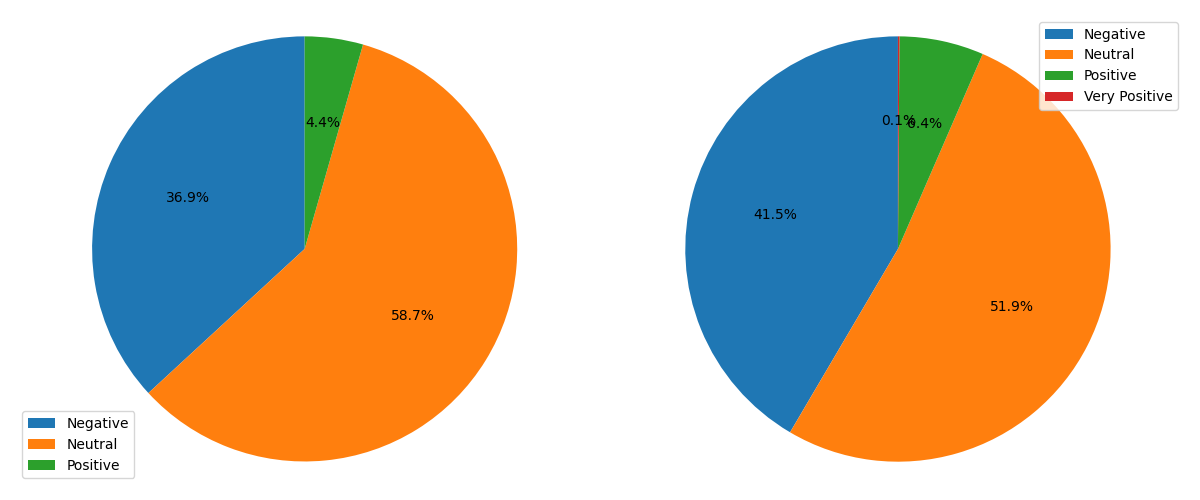
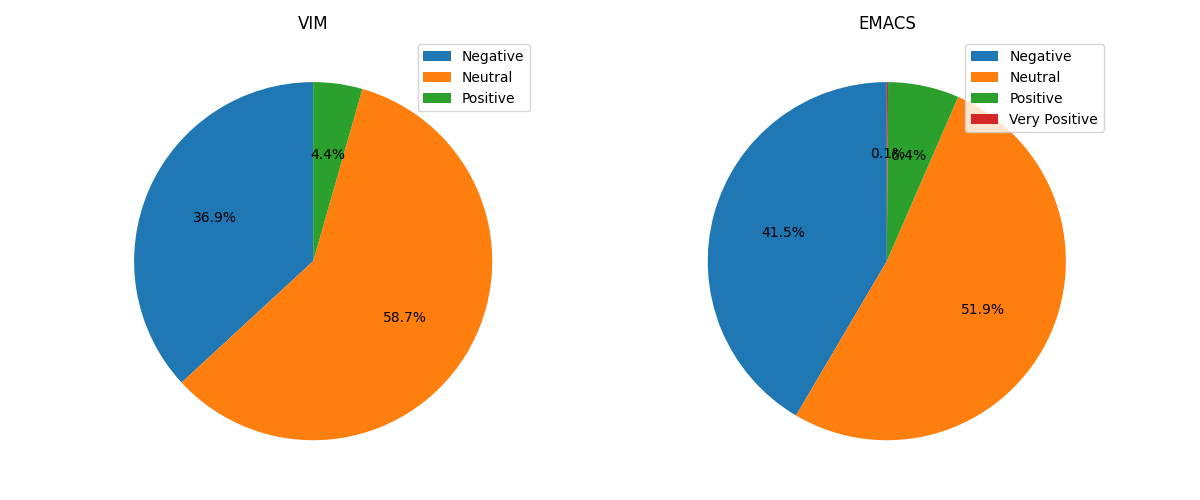
Fixed showing name of the topics in the pie chart generation.

diff --git a/analysis/service/plot.py b/analysis/service/plot.py
@@ -151,8 +151,8 @@ def plot_sentiment(vim_analyzer, emacs_analyzer):
     my_explode = (0, 0.1, 0)
     axes[0].pie(vim_sentiments[0], autopct='%1.1f%%', startangle=90)
     axes[1].pie(emacs_sentiments[0], autopct='%1.1f%%', startangle=90)
-    axes[0].axis('equal')
-    axes[1].axis('equal')
+    axes[0].set_title('VIM')
+    axes[1].set_title('EMACS')
     axes[0].legend(vim_sentiments[1])
     axes[1].legend(emacs_sentiments[1])
     plt.tight_layout()
